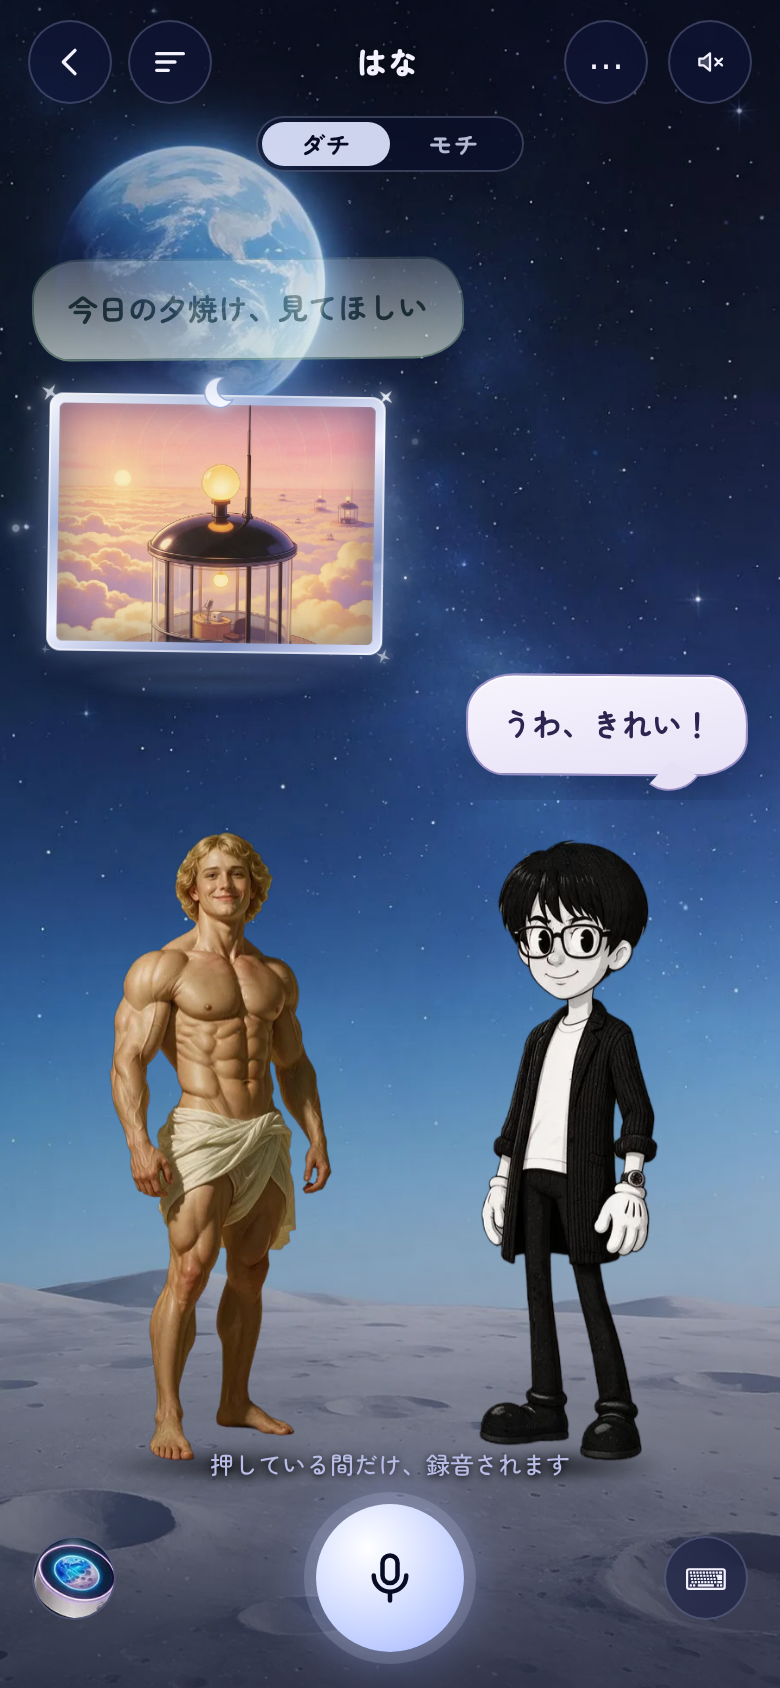
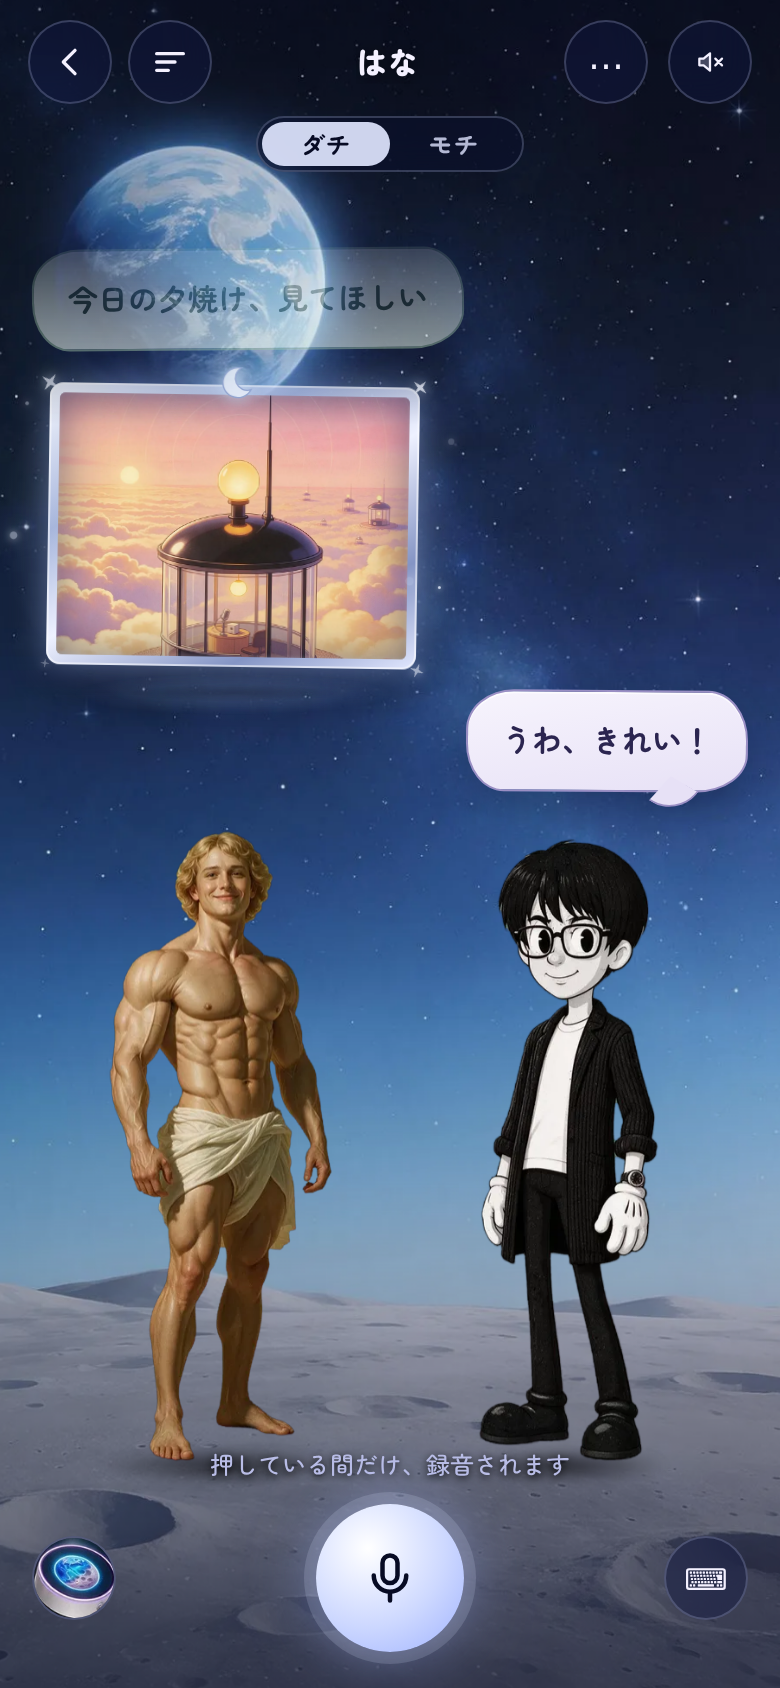
Talk log: room under the newest bubble so its soft shadow is not cut into a hard line by the scroll box
Claude-Session: https://claude.ai/code/session_01VLiVxXYEkJP9Xt5cBFE8CF

diff --git a/apps/web/components/talk/TalkScene.tsx b/apps/web/components/talk/TalkScene.tsx
@@ -1827,6 +1827,9 @@ export function Marked({ text, upto, marks }: { text: string; upto?: number; /**
  * newest at the bottom; the older ones move up and fade toward the top. It follows the newest while you are at the
  * bottom; scrolled up, it stays where you read and 〔いまに戻る〕 brings you back.
  */
+/** room under the newest bubble for its soft shadow, so the scroll box never cuts it into a hard line (the box reaches this much lower, padded back up) */
+const SHADOW_ROOM = 30;
+
 function TalkLog<U>({ top, bottom, units, keyOf, render, live, onReachTop }: { onReachTop?: () => void; top: number; bottom: number; units: U[]; keyOf: (u: U) => string; render: (u: U, newest: boolean) => ReactNode; /** the characters out of the line being said (follows it while typed) */ live: number }) {
   const box = useRef<HTMLDivElement>(null);
   const [atEnd, setAtEnd] = useState(true);
@@ -1900,9 +1903,9 @@ function TalkLog<U>({ top, bottom, units, keyOf, render, live, onReachTop }: { o
           if (end !== atEnd) setAtEnd(end);
         }}
         className="no-scrollbar pointer-events-auto absolute inset-x-0 z-[8] overflow-y-auto overscroll-contain px-4"
-        style={{ top, bottom, ['--relic-room' as string]: room ? `${Math.round(Math.max(150, room * 0.56))}px` : undefined, WebkitMaskImage: 'linear-gradient(to bottom, transparent 0, rgba(0,0,0,.25) 9%, #000 34%)', maskImage: 'linear-gradient(to bottom, transparent 0, rgba(0,0,0,.25) 9%, #000 34%)' }}
+        style={{ top, bottom: Math.max(0, bottom - SHADOW_ROOM), ['--relic-room' as string]: room ? `${Math.round(Math.max(150, room * 0.56))}px` : undefined, WebkitMaskImage: 'linear-gradient(to bottom, transparent 0, rgba(0,0,0,.25) 9%, #000 34%)', maskImage: 'linear-gradient(to bottom, transparent 0, rgba(0,0,0,.25) 9%, #000 34%)' }}
       >
-        <div ref={inner} className="flex min-h-full flex-col justify-end gap-2.5 pb-1 pt-[30%]">
+        <div ref={inner} className="flex min-h-full flex-col justify-end gap-2.5 pt-[30%]" style={{ paddingBottom: 4 + SHADOW_ROOM }}>
           {units.map((u, k) => (
             <div key={keyOf(u)} className="flex flex-col">
               {render(u, k === units.length - 1)}
